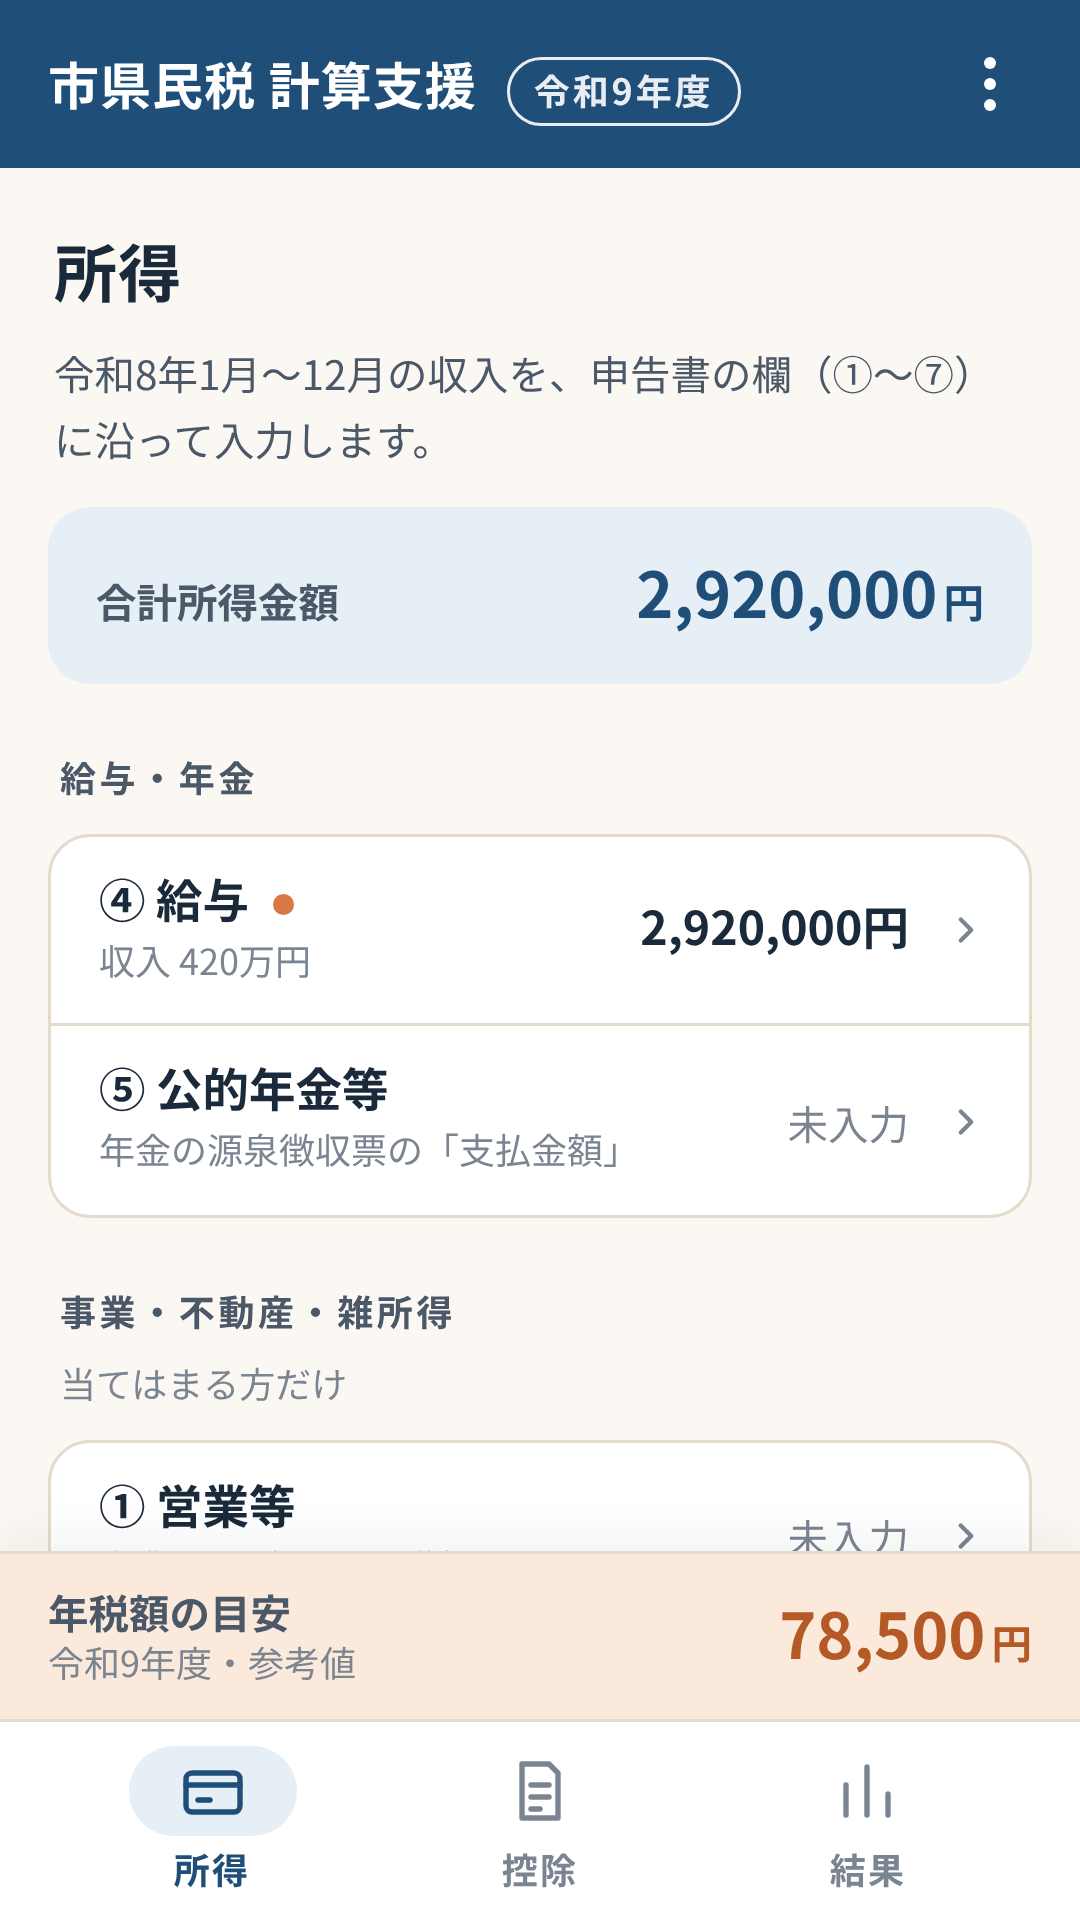
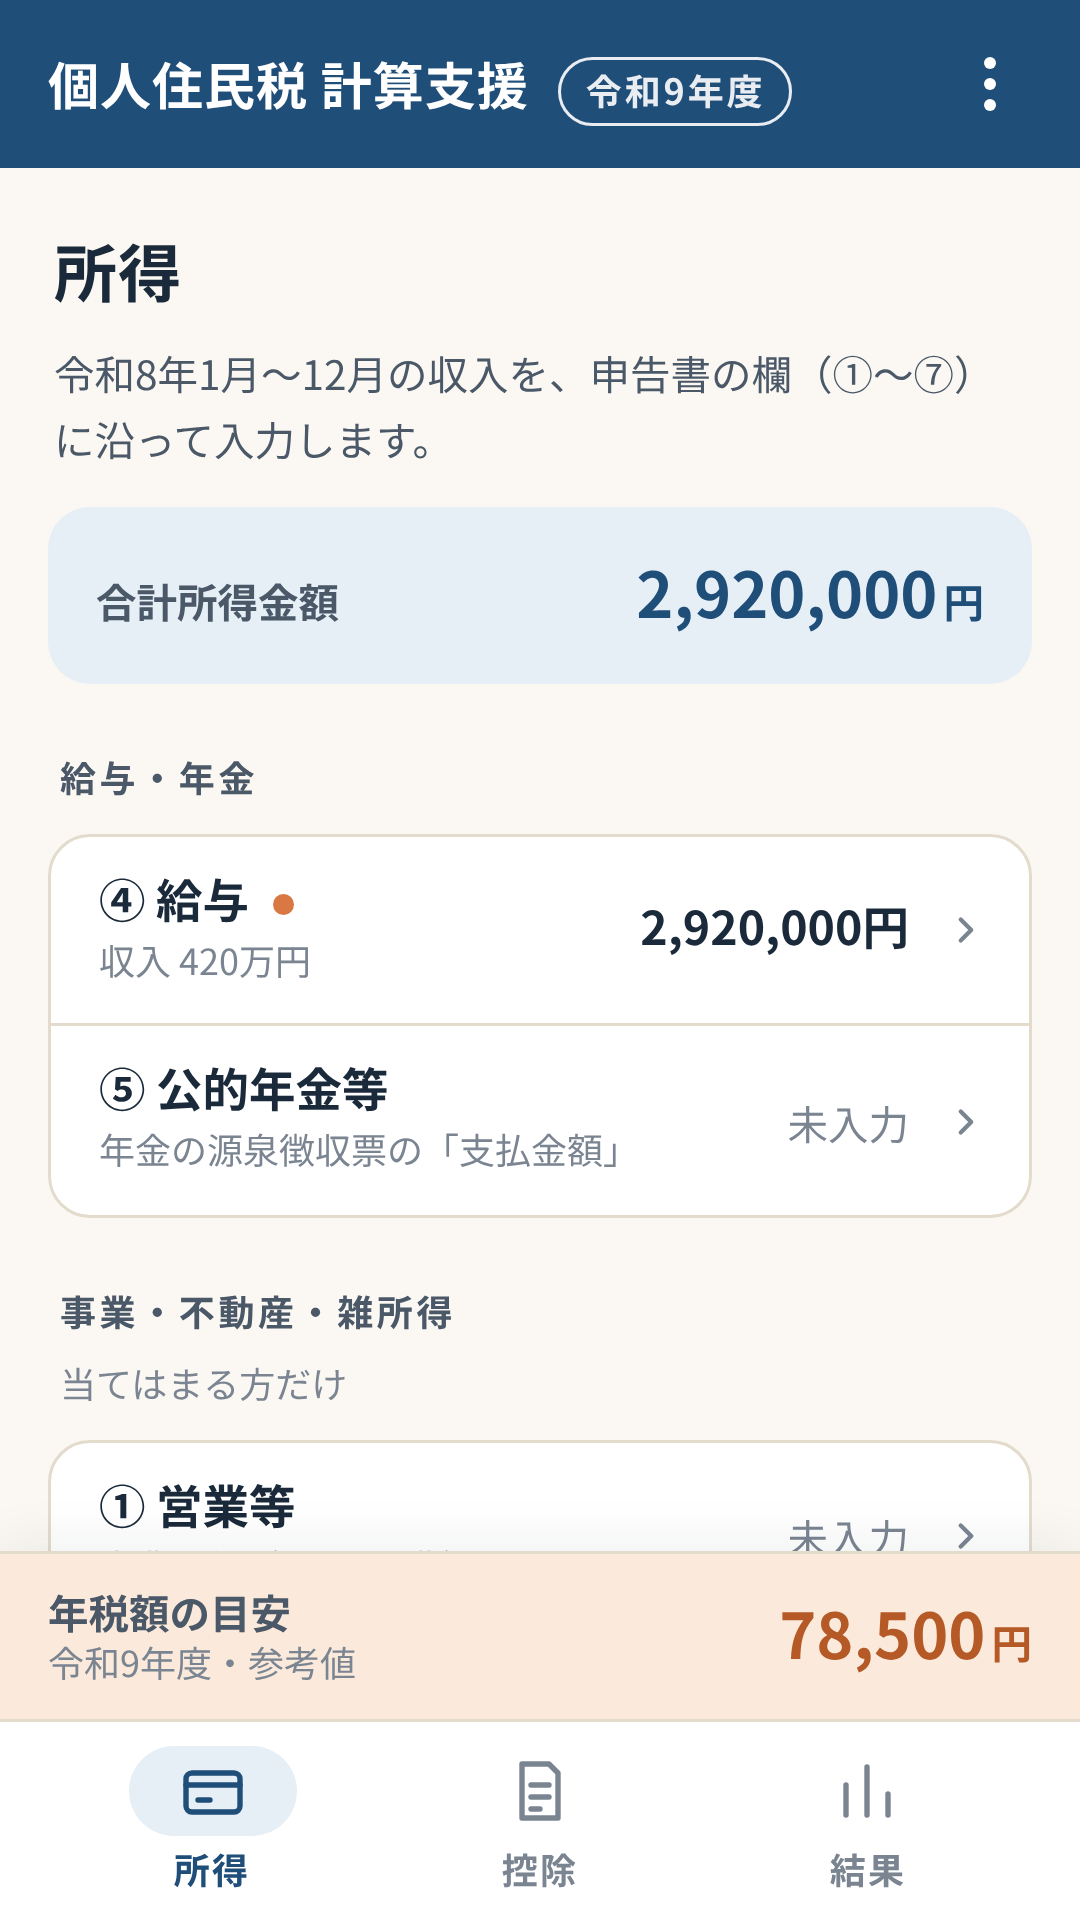
Add files via upload

Changed region(s): [[0.0306, 0.0312, 0.7333, 0.0625]]

diff --git a/app_shell.js b/app_shell.js
@@ -1,6 +1,6 @@
 /* ============================================================
  * app_shell.js
- * 市県民税 計算支援（令和9年度）— スマホ画面の制御
+ * 個人住民税 計算支援（令和9年度）— スマホ画面の制御
  *
  *  ・タブ（所得・控除・結果）と、下の「年税額の目安」の帯
  *  ・一覧の行をタップ → 入力ブロックを全画面シートに移して編集（PC版v2の方式）
@@ -14,7 +14,7 @@
 
   const PREVIEW = !!window.__PREVIEW__;
   const USE_HISTORY = !PREVIEW;
-  const APP_VERSION = "1.2.0（令和9年度版）";
+  const APP_VERSION = "1.2.1（令和9年度版）";
   const $ = (id) => document.getElementById(id);
   const num = (n) => Math.floor(Number(n) || 0).toLocaleString("ja-JP");
   const esc = (s) => String(s == null ? "" : s).replace(/[&<>"']/g, c => ({ "&": "&amp;", "<": "&lt;", ">": "&gt;", '"': "&quot;", "'": "&#39;" }[c]));
@@ -472,7 +472,7 @@
     const html = `
       <div class="view-head"><h1 class="view-title">結果</h1></div>
       <section class="hero" aria-label="年税額の目安">
-        <div class="hero-label">令和9年度 市県民税の年税額（目安）</div>
+        <div class="hero-label">令和9年度 住民税の年税額（目安）</div>
         <div class="hero-amt">${S.yearTax < 0 ? "△" + num(-S.yearTax) : num(S.yearTax)}<small>円</small></div>
         <div class="hero-parts"><span>所得割 <b>${num(S.shotokuWari)}円</b></span><span>均等割 <b>${num(S.kintouWari)}円</b></span></div>
         ${badges.length ? `<div class="hero-badges">${badges.join("")}</div>` : ""}
@@ -538,7 +538,7 @@
   async function shareSummary() {
     const text = window.APP.summaryText();
     if (!PREVIEW && navigator.share) {
-      try { await navigator.share({ title: "市県民税の試算（令和9年度）", text }); return; }
+      try { await navigator.share({ title: "住民税の試算（令和9年度）", text }); return; }
       catch (e) { if (e && e.name === "AbortError") return; }
     }
     try {
@@ -971,7 +971,7 @@
         ${tokushohoUrl() ? `<p><a href="${esc(tokushohoUrl())}" target="_blank" rel="noopener">特定商取引法に基づく表記</a></p>` : ""}`;
     openContentSheet("このアプリについて", `
       <div class="about">
-        <p>令和9年度（令和8年1月1日〜12月31日の所得）の市県民税（個人住民税）を、申告書の項目に沿って試算するアプリです。</p>
+        <p>令和9年度（令和8年1月1日〜12月31日の所得）の個人住民税（市区町村民税と都道府県民税）を、申告書の項目に沿って試算するアプリです。</p>
         <h3>ご注意</h3>
         <ul>
           <li>このアプリは個人が作成したもので、国・都道府県・市区町村などの<b>行政機関の公式アプリではありません</b>。行政機関とは関係がありません。</li>
@@ -1024,7 +1024,7 @@
     scrim.innerHTML = `<div class="dialog onboard" role="dialog" aria-modal="true" aria-labelledby="ob-t">
       <h2 id="ob-t">はじめにお読みください</h2>
       <ul>
-        <li>令和9年度（令和8年中の所得）の市県民税を試算するアプリです。</li>
+        <li>令和9年度（令和8年中の所得）の個人住民税を試算するアプリです。</li>
         <li>計算結果は<b>参考値</b>です。実際の税額は市区町村から届く通知でご確認ください。</li>
         <li>個人が作成したアプリで、<b>行政機関の公式アプリではありません</b>。</li>
         <li>入力した内容はこの端末の中だけで扱い、外部には送りません。</li>

diff --git a/app_core.js b/app_core.js
@@ -1,6 +1,6 @@
 /* ============================================================
  * app_core.js
- * 市県民税 計算支援（令和9年度）— アプリ本体（計算と入力フォーム）
+ * 個人住民税 計算支援（令和9年度）— アプリ本体（計算と入力フォーム）
  *
  * PC版（R8_計算支援.html）のメインスクリプトを移植したもの。
  * 計算の流れ（recalcAll）はPC版と同じで、次の点を変えている。
@@ -587,7 +587,7 @@
       <h2>明細</h2>
       <table><tr><th>日付</th><th>摘要</th><th>科目</th><th class="v">金額</th><th class="v">按分</th><th class="v">按分後</th></tr>${rows}
         <tr class="final"><td colspan="3">合計</td><td class="v">${sum.toLocaleString("ja-JP")}円</td><td></td><td class="v">${ap.toLocaleString("ja-JP")}円</td></tr></table>
-      <p class="note">市県民税 計算支援（令和9年度）で作成した整理用の資料です。申告内容は申告書の手引き等でご確認ください。</p>
+      <p class="note">個人住民税 計算支援（令和9年度）で作成した整理用の資料です。申告内容は申告書の手引き等でご確認ください。</p>
     `);
   }
 
@@ -1361,8 +1361,8 @@
 
     const ts = new Date().toLocaleString("ja-JP", { hour12: false });
     printHTML(`
-      <h1>令和9年度 市県民税の試算（参考値）</h1>
-      <div class="meta">作成日時：${escapeHTML(ts)}／市県民税 計算支援（令和9年度・令和8年分の所得）／住所地：${escapeHTML(ZEIGAKU_LOGIC.getRegion().label || "")}</div>
+      <h1>令和9年度 住民税の試算（参考値）</h1>
+      <div class="meta">作成日時：${escapeHTML(ts)}／個人住民税 計算支援（令和9年度・令和8年分の所得）／住所地：${escapeHTML(ZEIGAKU_LOGIC.getRegion().label || "")}</div>
       <div class="grid2">
         <div>
           <h2>所得</h2>
@@ -1396,7 +1396,7 @@
     const S = STATE;
     const y = (n) => Math.floor(Number(n) || 0).toLocaleString("ja-JP") + "円";
     const lines = [
-      "令和9年度 市県民税の試算（参考値）",
+      "令和9年度 住民税の試算（参考値）",
       `住所地：${ZEIGAKU_LOGIC.getRegion().label || ""}`,
       `年税額の目安：${S.yearTax < 0 ? "△" + y(-S.yearTax) + "（還付）" : y(S.yearTax)}`,
       `（所得割 ${y(S.shotokuWari)}／均等割 ${y(S.kintouWari)}）`,

diff --git a/tokushoho.html b/tokushoho.html
@@ -3,7 +3,7 @@
 <head>
 <meta charset="UTF-8">
 <meta name="viewport" content="width=device-width, initial-scale=1, viewport-fit=cover">
-<title>特定商取引法に基づく表記｜市県民税 計算支援</title>
+<title>特定商取引法に基づく表記｜個人住民税 計算支援</title>
 <meta name="theme-color" content="#1f4e79">
 <link rel="icon" type="image/png" sizes="32x32" href="icons/favicon-32.png">
 <style>
@@ -33,7 +33,7 @@ a { color: var(--brand); overflow-wrap: anywhere; }
     <div><dt>所在地</dt><dd>請求があった場合は、遅滞なく開示します。</dd></div>
     <div><dt>電話番号</dt><dd>請求があった場合は、遅滞なく開示します。</dd></div>
     <div><dt>メールアドレス</dt><dd>【連絡先メールアドレス】</dd></div>
-    <div><dt>商品</dt><dd>アプリ「市県民税 計算支援（令和9年度）」の税額シミュレーション機能（節税のヒント）の利用権（買い切り）</dd></div>
+    <div><dt>商品</dt><dd>アプリ「個人住民税 計算支援（令和9年度）」の税額シミュレーション機能（節税のヒント）の利用権（買い切り）</dd></div>
     <div><dt>販売価格</dt><dd>アプリ内の購入画面（Google Play）に表示する価格</dd></div>
     <div><dt>商品代金以外に必要な料金</dt><dd>インターネットの通信料金</dd></div>
     <div><dt>支払い方法</dt><dd>Google Play に登録したお支払い方法</dd></div>

diff --git a/index.html b/index.html
@@ -3,9 +3,9 @@
 <head>
 <meta charset="UTF-8">
 <meta name="viewport" content="width=device-width, initial-scale=1, viewport-fit=cover, interactive-widget=resizes-content">
-<title>市県民税 計算支援 R9</title>
+<title>個人住民税 計算支援 R9</title>
 <meta name="claude:viewport-fit-sides" content="cover">
-<meta name="description" content="令和9年度（令和8年中の所得）の市県民税（住民税）を、申告書の項目に沿って試算するアプリ。計算結果は参考値です。">
+<meta name="description" content="令和9年度（令和8年中の所得）の個人住民税を、申告書の項目に沿って試算するアプリ。全国の市区町村に対応。計算結果は参考値です。">
 <meta name="theme-color" content="#1f4e79" media="(prefers-color-scheme: light)">
 <meta name="theme-color" content="#173a5c" media="(prefers-color-scheme: dark)">
 <meta name="format-detection" content="telephone=no">
@@ -925,7 +925,7 @@ a.btn { text-decoration: none; }
 <header class="appbar">
   <div class="inner gutter">
     <div class="brand">
-      <span class="brand-name">市県民税 計算支援</span>
+      <span class="brand-name">個人住民税 計算支援</span>
       <span class="brand-year">令和9年度</span>
     </div>
     <button type="button" class="icon-btn" id="btn-menu" aria-label="メニュー">

diff --git a/billing_config.js b/billing_config.js
@@ -1,7 +1,7 @@
 /* ============================================================
  * billing_config.js — シミュレーション（節税のヒント）の課金の設定
  *
- * ★公開する前に、YOUR_… のところを実際の値に書き換えてください。
+ * ★公開する前に、YOUR_… のところ（購入確認サーバーの URL）を実際の値に書き換えてください。
  * ★書き換えたら sw.js の CACHE の番号も上げてください（利用者の端末に届くように）。
  * ============================================================ */
 window.BILLING_CONFIG = {
@@ -16,7 +16,7 @@ window.BILLING_CONFIG = {
   verifyUrl: "https://juminzei-billing.YOUR_SUBDOMAIN.workers.dev/verify",
 
   // ブラウザで開いた人に案内する Google Play のページ
-  playStoreUrl: "https://play.google.com/store/apps/details?id=io.github.YOUR_GITHUB_NAME.juminzei",
+  playStoreUrl: "https://play.google.com/store/apps/details?id=io.github.mitsuo5357.juminzei",
 
   // 特定商取引法に基づく表記のページ
   tokushohoUrl: "tokushoho.html",

diff --git a/privacy.html b/privacy.html
@@ -3,7 +3,7 @@
 <head>
 <meta charset="UTF-8">
 <meta name="viewport" content="width=device-width, initial-scale=1, viewport-fit=cover">
-<title>プライバシーポリシー｜市県民税 計算支援</title>
+<title>プライバシーポリシー｜個人住民税 計算支援</title>
 <meta name="theme-color" content="#1f4e79">
 <link rel="icon" type="image/png" sizes="32x32" href="icons/favicon-32.png">
 <style>
@@ -26,7 +26,7 @@ a { color: var(--brand); overflow-wrap: anywhere; }
 <header><h1>プライバシーポリシー</h1></header>
 <main>
   <div class="card">
-    <p>「市県民税 計算支援（令和9年度）」（以下「本アプリ」）における、利用者の情報の取扱いについて定めます。</p>
+    <p>「個人住民税 計算支援（令和9年度）」（以下「本アプリ」）における、利用者の情報の取扱いについて定めます。</p>
   </div>
 
   <h2>1. 取得する情報</h2>

diff --git a/sw.js b/sw.js
@@ -5,7 +5,7 @@
  *   （番号が変わると、利用者の端末に「新しい版があります」と表示され、
  *     「更新する」を押すと新しい版に切り替わります）
  * ============================================================ */
-const CACHE = "juminzei-r9-v1.2.0";
+const CACHE = "juminzei-r9-v1.2.1";
 const ASSETS = [
   "./",
   "./index.html",
